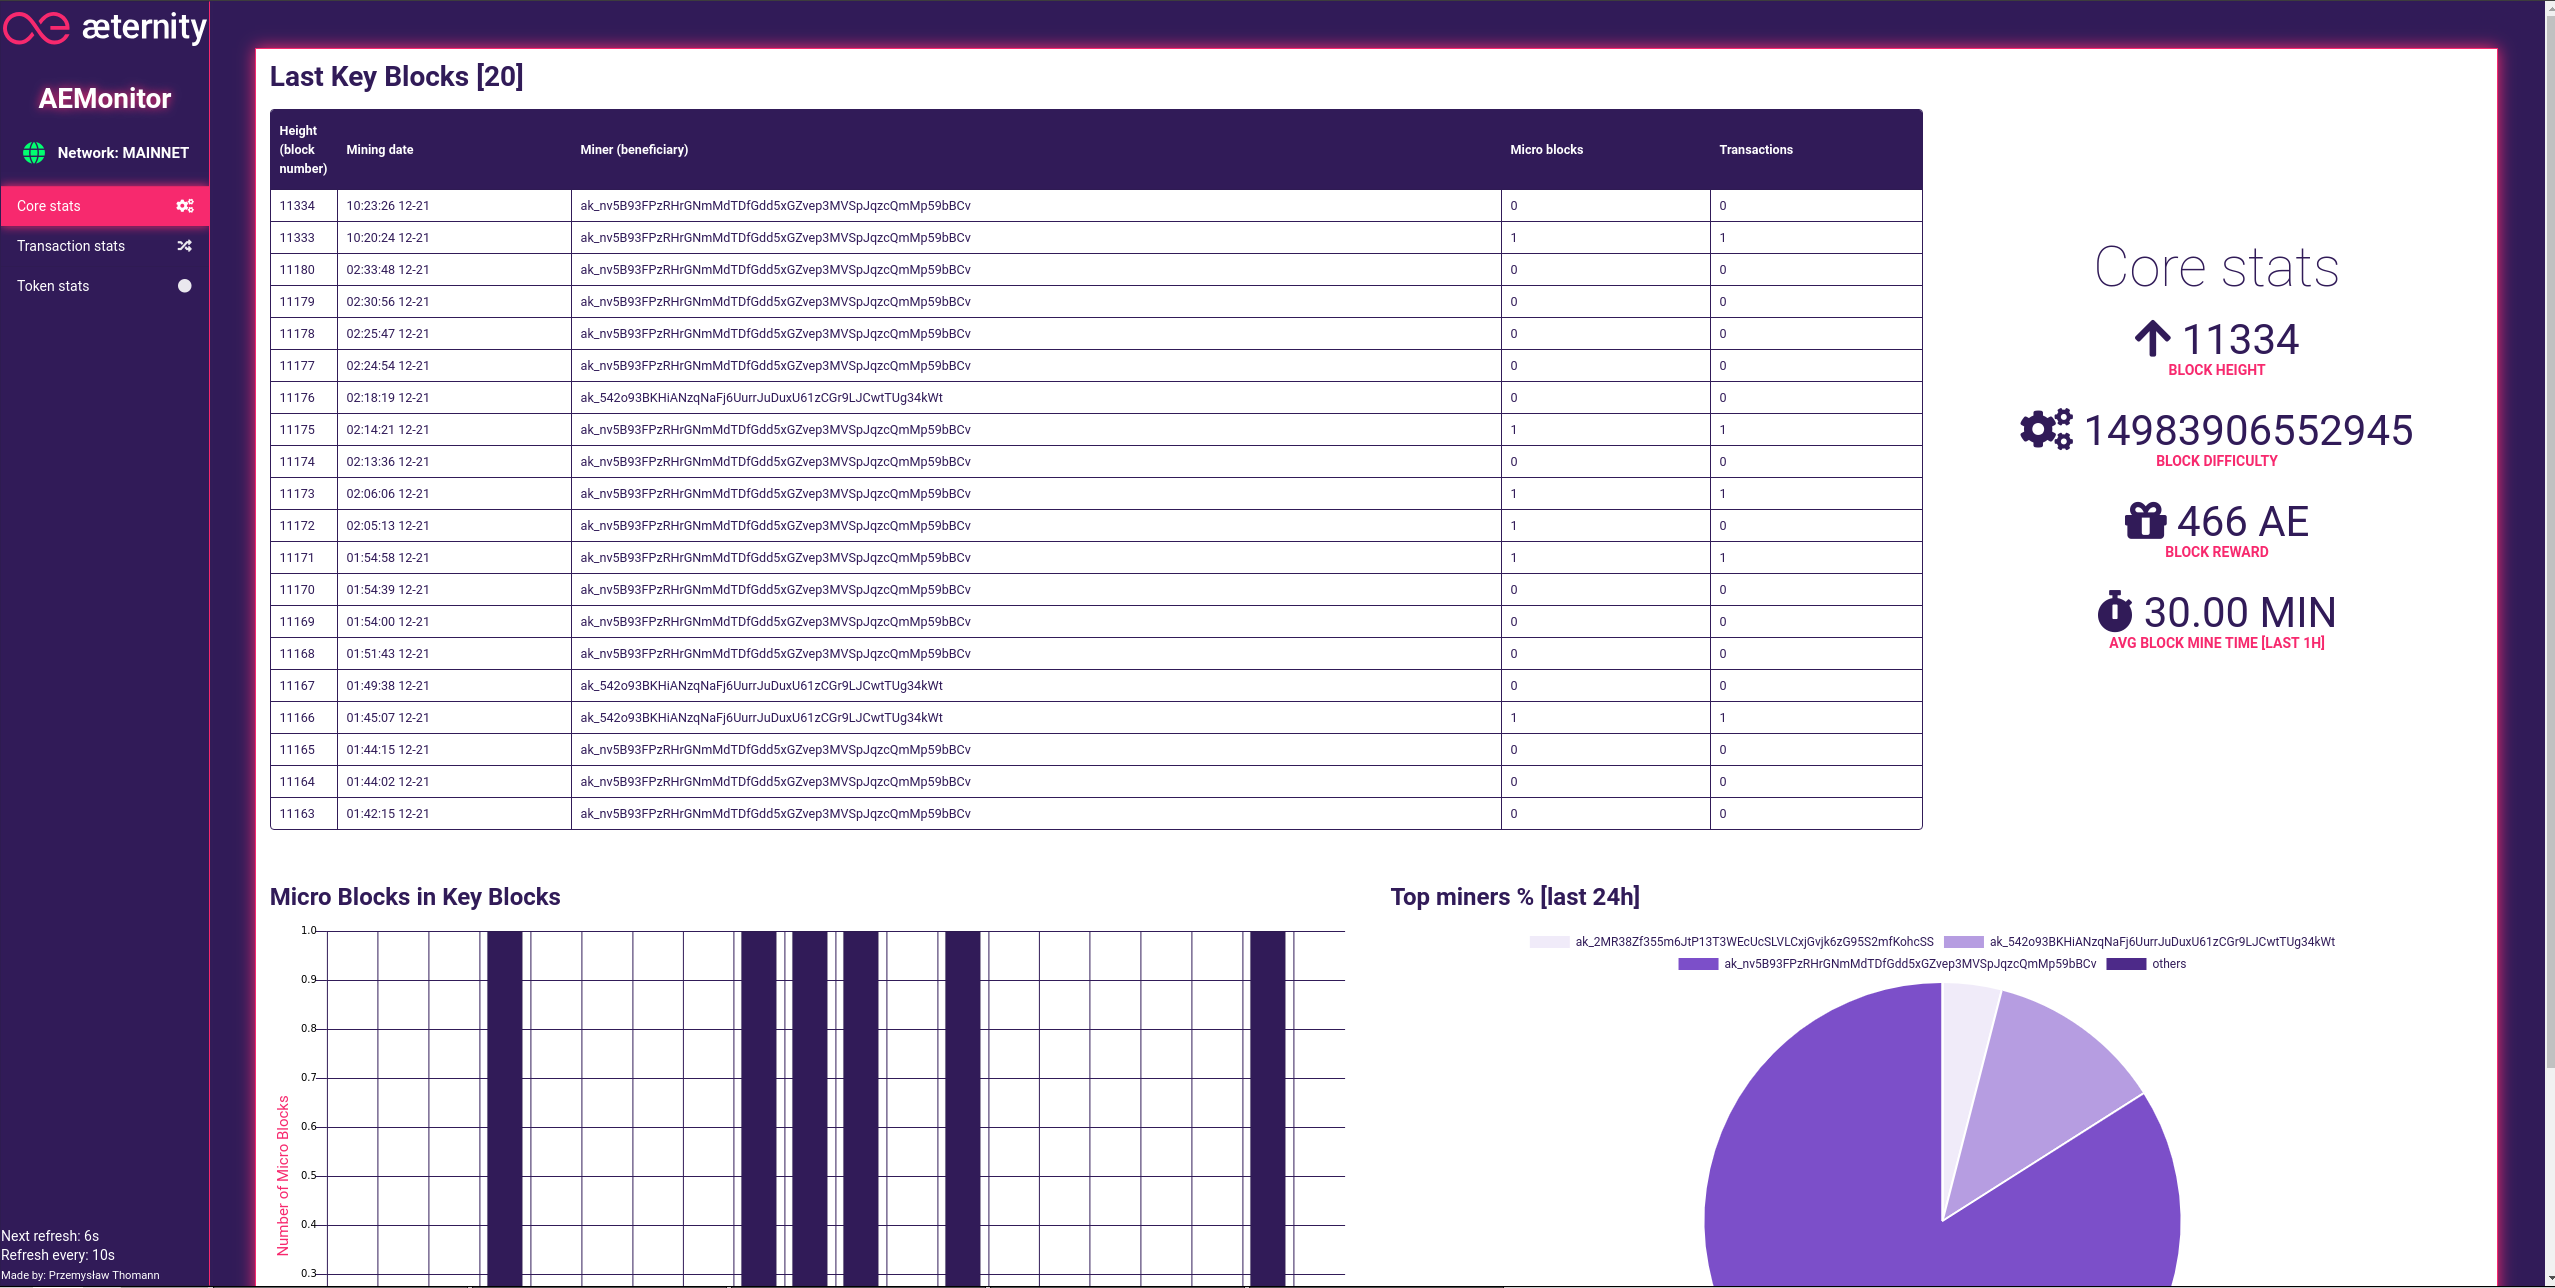
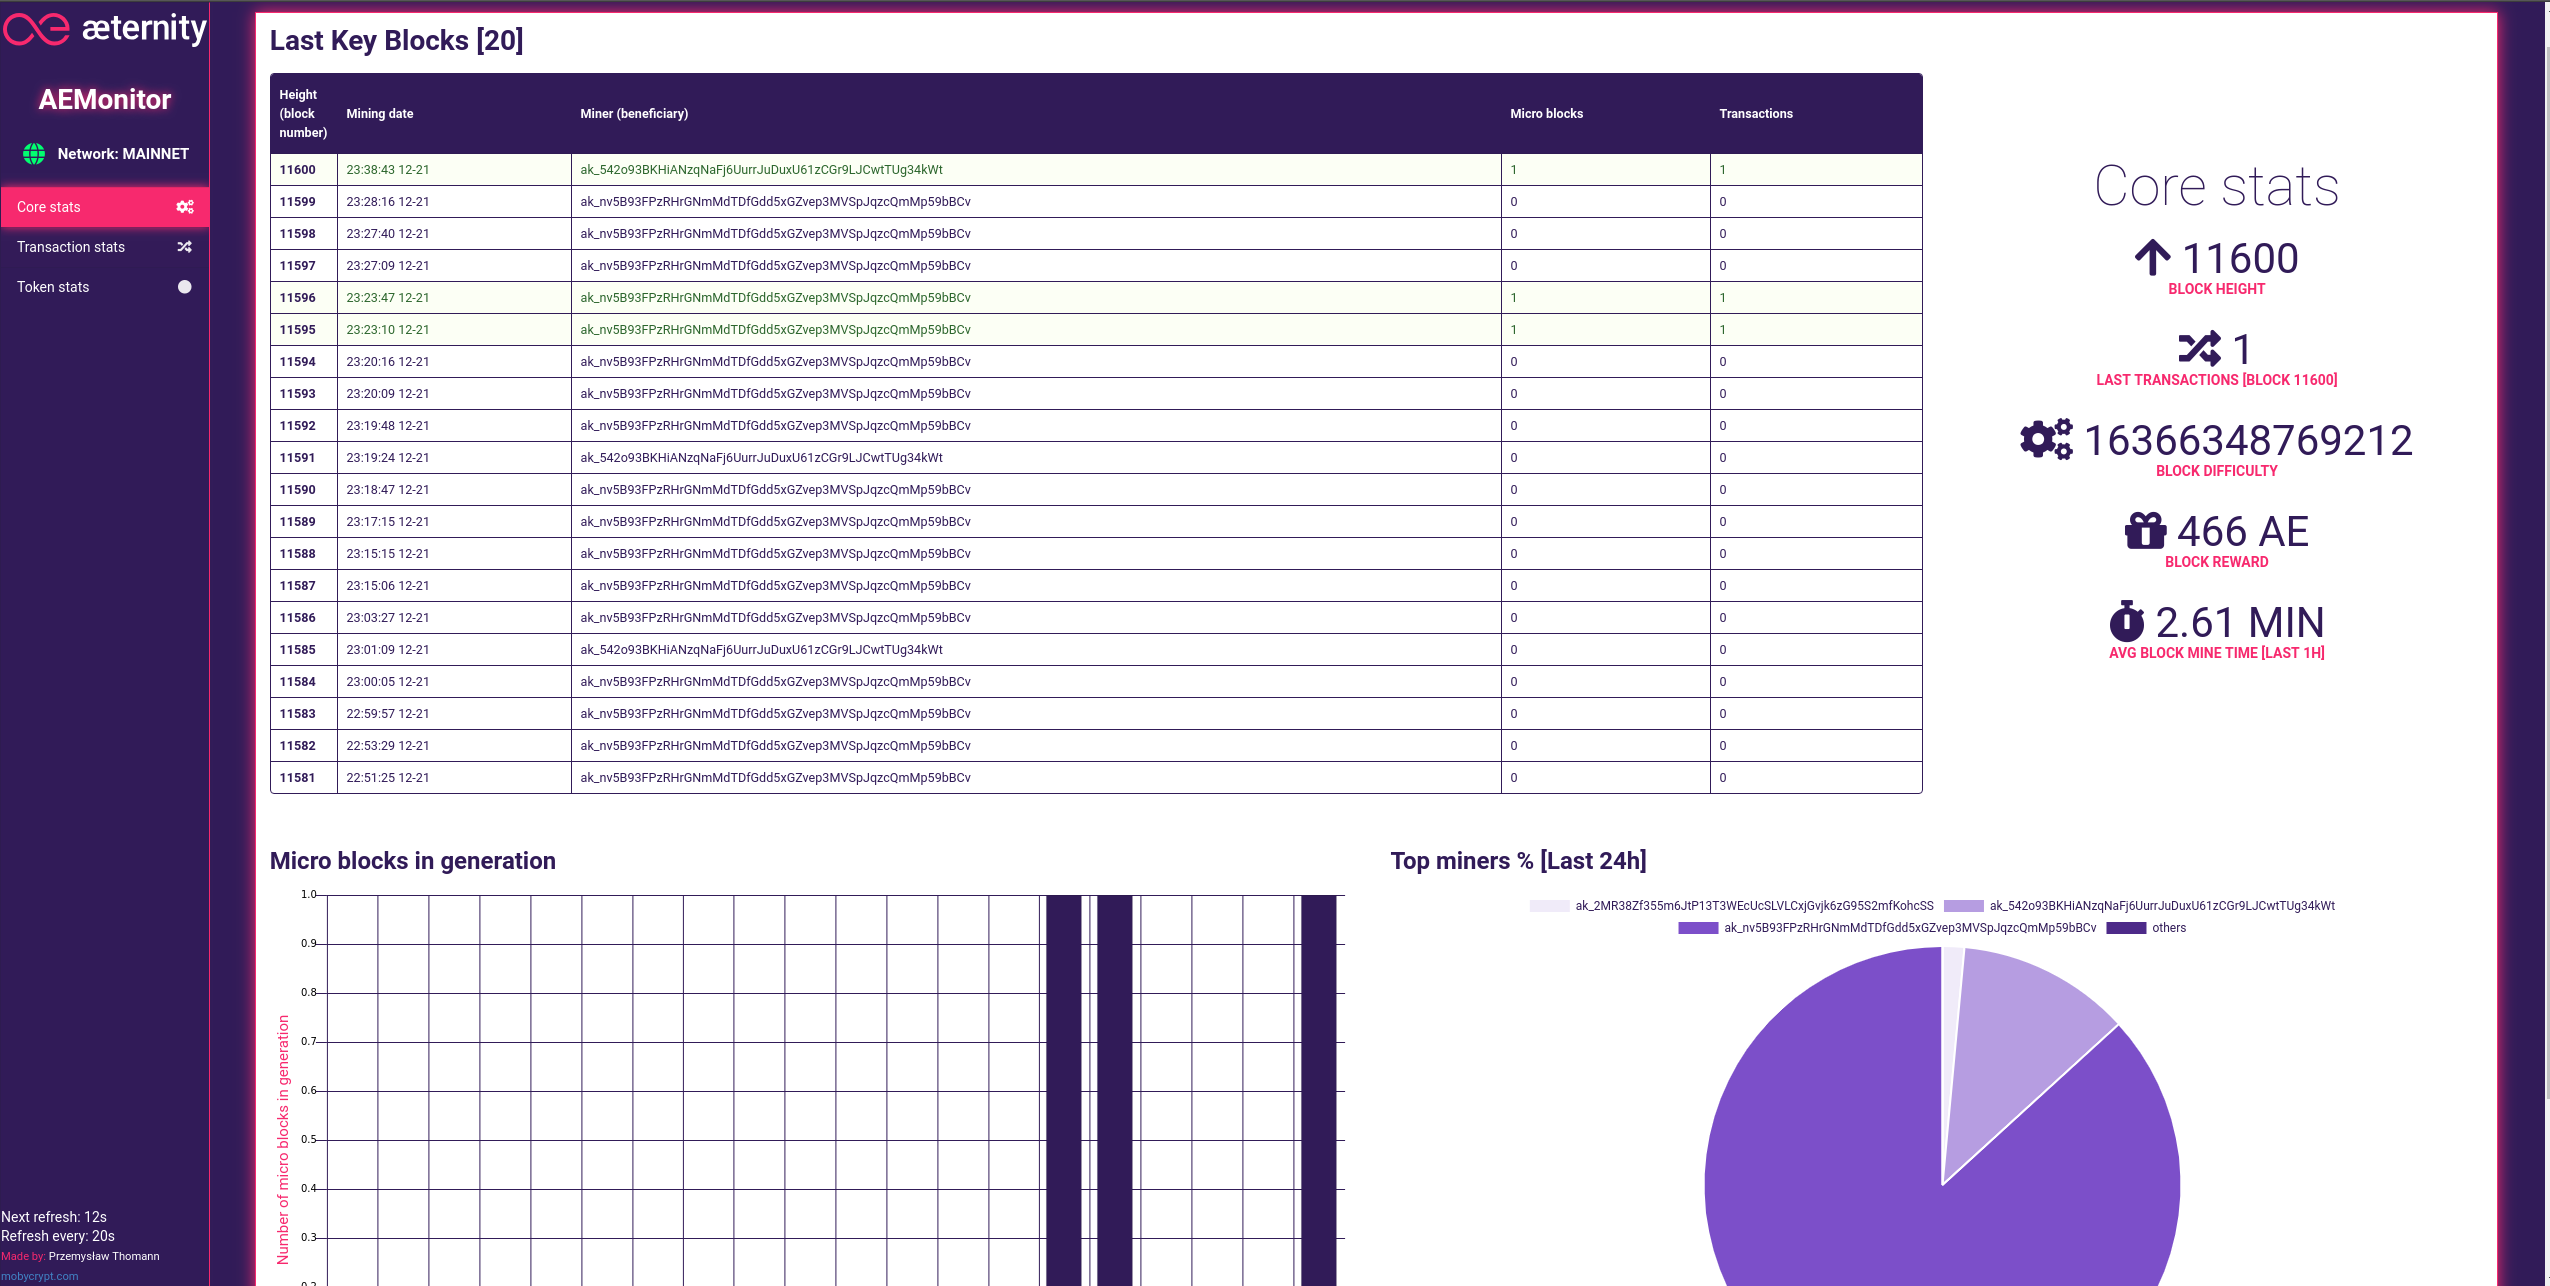
Avg transactions per generation

diff --git a/aemonitor-server/api/interfaces/core-api.js b/aemonitor-server/api/interfaces/core-api.js
@@ -5,14 +5,14 @@ const BlockRewardsRepository = require('../domain/repository/block-rewards-repos
 
 app.express.get('/api/getLastKeyBlocks', (req, res) => {
   AeReadRepository.getLastKeyBlocks(global.properties.lastKeyBlocksCount, (keyBlockRows) => {
-    const keyBlocksHeightArray = keyBlockRows.map(row => new Number(row.height));
+    const keyBlocksHeightArray = keyBlockRows.map(row => Number(row.height));
     const keyBlocksHashArray = keyBlockRows.map(row => row.hash);
     AeReadRepository.getMicroBlocksCountForGivenBlocksHashArray(keyBlocksHashArray, (microBlockRows) => {
       AeReadRepository.getTransactionsCountOfGivenBlocksHeight(keyBlocksHeightArray, (transactionsCountRowsPerMicroBlock) => {
         keyBlockRows.forEach(keyBlockRow => {
           const transactionsCountRowsForGivenMicroBlock = transactionsCountRowsPerMicroBlock
             .filter(transactionsCountRowsPerMicroBlockRow => transactionsCountRowsPerMicroBlockRow.block_height === keyBlockRow.height);
-          keyBlockRow.transactionsCount = transactionsCountRowsForGivenMicroBlock.length === 1 ? new Number(transactionsCountRowsForGivenMicroBlock[0].count) : 0;
+          keyBlockRow.transactionsCount = transactionsCountRowsForGivenMicroBlock.length === 1 ? Number(transactionsCountRowsForGivenMicroBlock[0].count) : 0;
           const microBlocksCountForGivenBlockRow = microBlockRows.filter(microBlockRow => microBlockRow.hash === keyBlockRow.hash)[0];
           keyBlockRow.microBlocksCount = microBlocksCountForGivenBlockRow !== undefined ? microBlocksCountForGivenBlockRow.count : 0;
         });
@@ -25,13 +25,13 @@ app.express.get('/api/getLastKeyBlocks', (req, res) => {
 app.express.get('/api/getLast24hMinersPercentage', (req, res) => {
   AeReadRepository.getBlocksMinedByMinersWithinLast24hOrderedDesc((rows) => {
     let totalKeyBlocksMinedWithinLast24h = 0;
-    rows.forEach(row => totalKeyBlocksMinedWithinLast24h += new Number(row.count));
+    rows.forEach(row => totalKeyBlocksMinedWithinLast24h += Number(row.count));
     let totalBlocksMinedByBest = 0;
     const miners = [];
     //Best 4 are normally counted
     let normallyCounted = rows.length > 4 ? 4: rows.length;
     for (let i = 0; i < normallyCounted; i++) {
-      const minerCountedBlocks = new Number(rows[i].count);
+      const minerCountedBlocks = Number(rows[i].count);
       miners.push({
         beneficiary: rows[i].beneficiary,
         minedPercentage: (minerCountedBlocks / totalKeyBlocksMinedWithinLast24h) * 100
@@ -70,7 +70,7 @@ app.express.get('/api/getBlockReward/:blockNumber', (req, res) => {
 
 app.express.get('/api/getLast1hAvgBlockTime', (req, res) => {
   AeReadRepository.getCountKeyBlocksFromLastHour((rows) => {
-    const blockCount = new Number(rows[0].count);
+    const blockCount = Number(rows[0].count);
     res.send({last1hAvgBlockTime: blockCount > 0 ? (60 / blockCount) : 0});
   });
 });

diff --git a/aemonitor-server/api/domain/services/scheduled-token-exchanges-checker.js b/aemonitor-server/api/domain/services/scheduled-token-exchanges-checker.js
@@ -5,16 +5,16 @@ const checkExchanges = () => {
   const checkGateIo = async () => {
     const response = await axios.get('https://data.gateio.io/api2/1/ticker/ae_usdt');
     TokenRepository.updateTokenExchangeEntry({
-      volume24: new Number(response.data.baseVolume),
-      price: new Number(response.data.last),
+      volume24: Number(response.data.baseVolume),
+      price: Number(response.data.last),
       exchangeName: 'GATE.IO',
     });
   };
   const checkBinance = async () => {
     const response = await axios.get('https://api.binance.com/api/v1/ticker/24hr?symbol=AEBTC');
     TokenRepository.updateTokenExchangeEntry({
-      volume24: new Number(response.data.volume),
-      price: new Number(response.data.lastPrice),
+      volume24: Number(response.data.volume),
+      price: Number(response.data.lastPrice),
       exchangeName: 'Binance',
     });
   };
@@ -22,8 +22,8 @@ const checkExchanges = () => {
   const checkBithumb = async () => {
     const response = await axios.get('https://api.bithumb.com/public/ticker/ae');
     TokenRepository.updateTokenExchangeEntry({
-      volume24: new Number(response.data.data.volume_1day),
-      price: new Number(response.data.data.average_price),
+      volume24: Number(response.data.data.volume_1day),
+      price: Number(response.data.data.average_price),
       exchangeName: 'Bithumb',
     });
   };
@@ -31,8 +31,8 @@ const checkExchanges = () => {
   const checkUex = async () => {
     const response = await axios.get('https://open-api.uex.com/open/api/get_ticker?symbol=aebtc');
     TokenRepository.updateTokenExchangeEntry({
-      volume24: new Number(response.data.data.vol),
-      price: new Number(response.data.data.last),
+      volume24: Number(response.data.data.vol),
+      price: Number(response.data.data.last),
       exchangeName: 'Uex',
     });
   };

diff --git a/aemonitor-client/src/components/core/components/blocks-statistics/BlocksStatistics.vue b/aemonitor-client/src/components/core/components/blocks-statistics/BlocksStatistics.vue
@@ -16,6 +16,18 @@
             <div class="sixteen wide column">
                 <div class="ui statistic" :class="isMobile ? 'tiny' : 'small'">
                     <div class="value">
+                        <i class="random icon"></i> {{lastTransactionsCount}}
+                    </div>
+                    <div class="label">
+                        Last transactions [block {{blockHeight}}]
+                    </div>
+                </div>
+            </div>
+        </div>
+        <div class="row">
+            <div class="sixteen wide column">
+                <div class="ui statistic" :class="isMobile ? 'tiny' : 'small'">
+                    <div class="value">
                         <i class="cogs icon"></i> {{blockDifficulty}}
                     </div>
                     <div class="label">
@@ -76,11 +88,13 @@
       data() {
         return {
           blockHeight: 0,
+          lastTransactionsCount: 0,
         };
       },
       watch: {
         lastKeyBlocks() {
           this.blockHeight = this.lastKeyBlocks[0].height;
+          this.lastTransactionsCount = this.lastKeyBlocks[0].transactionsCount;
         },
       }
     }

diff --git a/aemonitor-client/src/components/transactions/components/transactions-statistics/TransactionsStatistics.vue b/aemonitor-client/src/components/transactions/components/transactions-statistics/TransactionsStatistics.vue
@@ -14,6 +14,18 @@
         </div>
         <div class="row">
             <div class="sixteen wide column">
+                <div class="ui statistic" :class="isMobile ? 'tiny' : 'small'">
+                    <div class="value">
+                        <i class="retweet icon"></i> {{Number(last24hAvgTransactionsPerGeneration).toFixed(1)}}
+                    </div>
+                    <div class="label">
+                        Avg trans. / generation [Last 24h]
+                    </div>
+                </div>
+            </div>
+        </div>
+        <div class="row">
+            <div class="sixteen wide column">
                 <div class="ui mini statistic">
                     <div class="value">
                         <i class="money bill alternate icon"></i> {{last24hAvgTransactionFee}} AE
@@ -40,7 +52,11 @@
       last24hAvgTransactionFee: {
         type: String,
         required: true,
-      }
+      },
+      last24hAvgTransactionsPerGeneration: {
+        type: Number,
+        required: true,
+      },
     },
     data() {
       return {

diff --git a/aemonitor-client/src/components/transactions/TransactionsViewPc.vue b/aemonitor-client/src/components/transactions/TransactionsViewPc.vue
@@ -9,7 +9,11 @@
                     </div>
                     <div class="four wide column">
                         <h1 class="ui centered header transactionStatsFont">Transactions stats</h1>
-                        <transactions-statistics :last24h-transaction-times="last24hTransactionTimes" :last24h-avg-transaction-fee="last24hAvgTransactionFee"></transactions-statistics>
+                        <transactions-statistics
+                                :last24h-transaction-times="last24hTransactionTimes"
+                                :last24h-avg-transaction-fee="last24hAvgTransactionFee"
+                                :last24h-avg-transactions-per-generation="last24hAvgTransactionsPerGeneration"
+                        ></transactions-statistics>
                     </div>
                 </div>
                 <div class="row">

diff --git a/aemonitor-client/src/components/transactions/mixins/transactions-mixin.js b/aemonitor-client/src/components/transactions/mixins/transactions-mixin.js
@@ -1,5 +1,5 @@
 import {
-  getLast24hAvgTransactionFee,
+  getLast24hAvgTransactionFee, getLast24hAvgTransactionsPerGeneration,
   getLast24hTransactionTimes,
   getLast24hTransactionTypes,
   getLastTransactions
@@ -14,6 +14,7 @@ export default {
       last24hTransactionTimes: [],
       last24hTransactionTypes: [],
       last24hAvgTransactionFee: '0',
+      last24hAvgTransactionsPerGeneration: 0,
     };
   },
   methods: {
@@ -32,6 +33,9 @@ export default {
       getLast24hAvgTransactionFee().subscribe((res) => {
         this.last24hAvgTransactionFee = this.toAe(res.data.avgFee);
       });
+      getLast24hAvgTransactionsPerGeneration().subscribe((res) => {
+        this.last24hAvgTransactionsPerGeneration = res.data.last24hAvgTransactionsPerGeneration;
+      })
     },
   },
 }

diff --git a/aemonitor-client/src/components/transactions/TransactionsViewMobile.vue b/aemonitor-client/src/components/transactions/TransactionsViewMobile.vue
@@ -3,7 +3,11 @@
         <div class="row borderedRow">
             <div class="sixteen wide column">
                 <h1 class="ui centered header transactionStatsFont">Transactions stats</h1>
-                <transactions-statistics :last24h-transaction-times="last24hTransactionTimes" :last24h-avg-transaction-fee="last24hAvgTransactionFee"></transactions-statistics>
+                <transactions-statistics
+                        :last24h-transaction-times="last24hTransactionTimes"
+                        :last24h-avg-transaction-fee="last24hAvgTransactionFee"
+                        :last24h-avg-transactions-per-generation="last24hAvgTransactionsPerGeneration"
+                ></transactions-statistics>
             </div>
         </div>
         <div class="row borderedRow">

diff --git a/aemonitor-server/api/domain/repository/ae-read-repository.js b/aemonitor-server/api/domain/repository/ae-read-repository.js
@@ -128,3 +128,15 @@ exports.getMaxSavedKeyBlockHeight = (onSucceedCallback) => {
     }
   );
 };
+
+exports.getGroupedTransactionsPerKeyBlockFromLast24h = (onSucceedCallback) => {
+  db.pool.query('SELECT KB.HEIGHT, COUNT (AET) FROM KEY_BLOCK KB LEFT JOIN MICRO_BLOCK MB ON MB.KEY_BLOCK_HASH = KB.HASH LEFT JOIN AE_TRANSACTION AET ON AET.MICRO_BLOCK_HASH = MB.HASH WHERE KB.NETWORK_ID = $1 AND KB.time >= NOW() - \'1 day\'::INTERVAL GROUP BY KB.HEIGHT',
+    [global.properties.networkId], (err, res) => {
+      if (err) {
+        console.log('Getting grouped transactions per key block from last 24h failed!', err);
+        onSucceedCallback([]);
+      } else {
+        onSucceedCallback(res.rows);
+      }
+    });
+};

diff --git a/aemonitor-client/public/index.html b/aemonitor-client/public/index.html
@@ -6,11 +6,11 @@
     <meta name="viewport" content="width=device-width,initial-scale=1.0">
     <link rel="icon" href="<%= BASE_URL %>favicon.ico">
     <link href="https://fonts.googleapis.com/css?family=Roboto" rel="stylesheet">
-    <title>aeternity-monitor-client</title>
+    <title>AEMonitor</title>
   </head>
   <body>
     <noscript>
-      <strong>We're sorry but aeternity-monitor-client doesn't work properly without JavaScript enabled. Please enable it to continue.</strong>
+      <strong>We're sorry but AEMonitor doesn't work properly without JavaScript enabled. Please enable it to continue.</strong>
     </noscript>
     <div id="app"></div>
     <!-- built files will be auto injected -->

diff --git a/aemonitor-server/api/interfaces/transactions-api.js b/aemonitor-server/api/interfaces/transactions-api.js
@@ -18,3 +18,15 @@ app.express.get('/api/getLast24hAvgTransactionFee', (req, res) => {
     res.send({avgFee: rows[0] !== undefined ? rows[0].avg : 0});
   });
 });
+
+
+app.express.get('/api/getLast24hAvgTransactionsPerGeneration', (req, res) => {
+  AeReadRepository.getGroupedTransactionsPerKeyBlockFromLast24h((rows) => {
+    const keyBlockQuantity = rows.length;
+    let transactionsDoneQuantity = 0;
+    rows.forEach(row => {
+      transactionsDoneQuantity += Number(row.count);
+    });
+    res.send({last24hAvgTransactionsPerGeneration: (keyBlockQuantity / transactionsDoneQuantity)});
+  });
+});

diff --git a/aemonitor-client/src/components/core/mixins/core-mixin.js b/aemonitor-client/src/components/core/mixins/core-mixin.js
@@ -24,7 +24,6 @@ export default {
       console.log('Fetching core data.');
       getLastKeyBlocks().subscribe((res) => {
         this.lastKeyBlocks = res.data;
-        console.log('Last key blocks', this.lastKeyBlocks);
         getBlockReward(this.lastKeyBlocks[0].height).subscribe((res) => {
           this.blockReward = res.data.blockReward;
         });

diff --git a/aemonitor-client/src/components/transactions/services/transactions-http-service.js b/aemonitor-client/src/components/transactions/services/transactions-http-service.js
@@ -15,3 +15,8 @@ export function getLast24hTransactionTimes() {
 export function getLast24hAvgTransactionFee() {
   return HttpService.get('/api/getLast24hAvgTransactionFee');
 }
+
+
+export function getLast24hAvgTransactionsPerGeneration() {
+  return HttpService.get('/api/getLast24hAvgTransactionsPerGeneration');
+}
